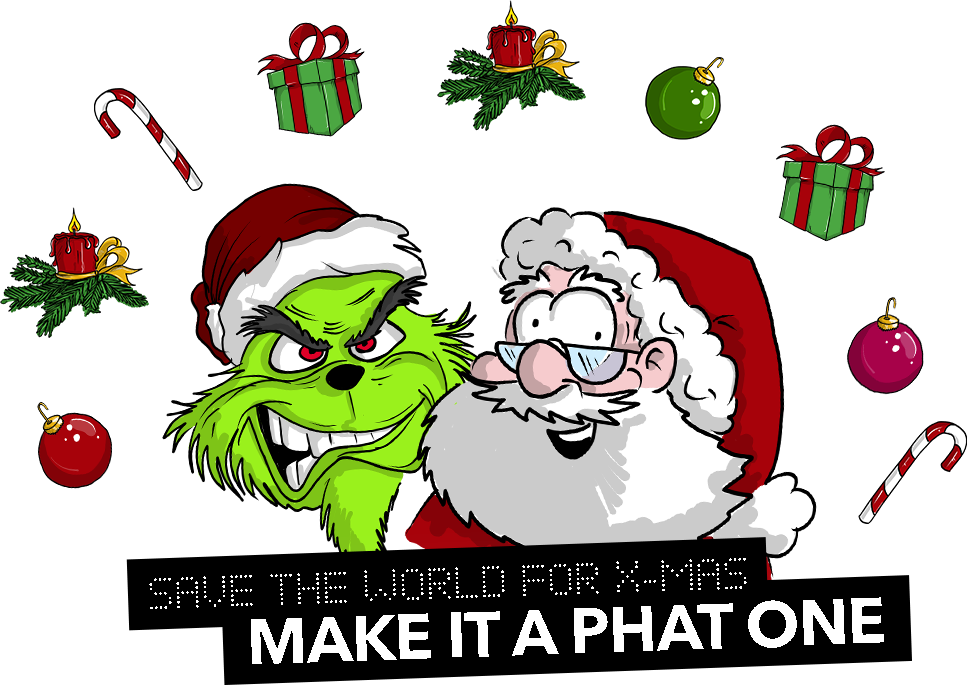
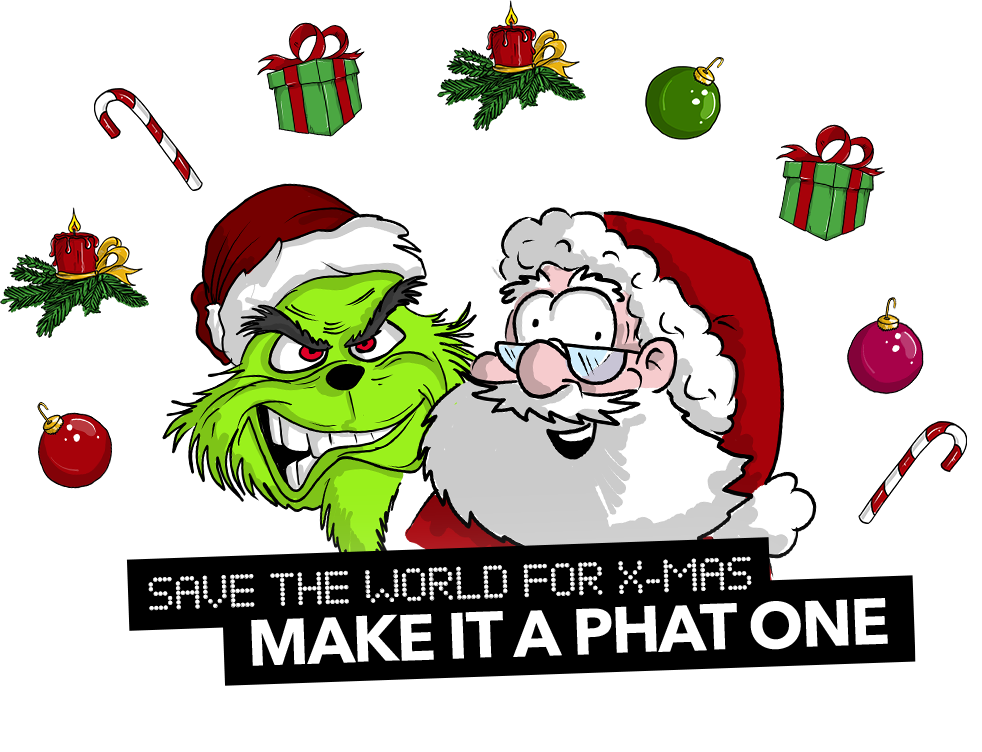
welcome scren 2.0

diff --git a/src/js/game/hud/elements/Button.js b/src/js/game/hud/elements/Button.js
@@ -3,9 +3,9 @@ import Events from '../../Events.js';
 
 export default class Button {
   constructor({ text = 'Button', x = 50, y = 50, color = '#ba55ad', textColor = '#fff' }) {
-    this.fontSize = 24;
-    this.width = (text.length * this.fontSize) * 0.6;
-    this.height = this.fontSize * 2;
+    this.fontSize = 18;
+    this.width = (text.length * this.fontSize) * 0.7;
+    this.height = this.fontSize * 2.5;
 
     this.text = text;
     this.x = x - this.width / 2; // Center the button horizontally at the given x
@@ -49,14 +49,34 @@ export default class Button {
    * Render the button on the canvas.
    */
   render() {
-    // Draw the button rectangle
-    canvas.ctx.fillStyle = this.color;
-    canvas.ctx.fillRect(this.x, this.y, this.width, this.height);
+    // Set the corner radius
+    const radius = 10;
 
-    // Draw the button text
-    canvas.ctx.font = `${this.fontSize}px VT323`;
+    // Begin path for rounded rectangle
+    canvas.ctx.beginPath();
+    canvas.ctx.moveTo(this.x + radius, this.y);
+    canvas.ctx.lineTo(this.x + this.width - radius, this.y);
+    canvas.ctx.quadraticCurveTo(this.x + this.width, this.y, this.x + this.width, this.y + radius);
+    canvas.ctx.lineTo(this.x + this.width, this.y + this.height - radius);
+    canvas.ctx.quadraticCurveTo(this.x + this.width, this.y + this.height, this.x + this.width - radius, this.y + this.height);
+    canvas.ctx.lineTo(this.x + radius, this.y + this.height);
+    canvas.ctx.quadraticCurveTo(this.x, this.y + this.height, this.x, this.y + this.height - radius);
+    canvas.ctx.lineTo(this.x, this.y + radius);
+    canvas.ctx.quadraticCurveTo(this.x, this.y, this.x + radius, this.y);
+    canvas.ctx.closePath();
+
+    // Fill the rounded rectangle
+    canvas.ctx.fillStyle = this.color;
+    canvas.ctx.fill();
+
+    // Draw the button text in bold Arial
+    canvas.ctx.font = `bold ${this.fontSize}px Arial`;
     canvas.ctx.fillStyle = this.textColor;
     canvas.ctx.textAlign = 'center';
-    canvas.ctx.fillText(this.text, this.x + this.width / 2, this.y + this.fontSize * 1.3);
+    canvas.ctx.fillText(
+      this.text,
+      this.x + this.width / 2,
+      this.y + this.fontSize * 1.6
+    );
   }
 }

diff --git a/src/js/game/hud/WelcomeMenu.js b/src/js/game/hud/WelcomeMenu.js
@@ -17,7 +17,6 @@ export default class WelcomeMenu {
 
     // Initialize images (they should be loaded before rendering)
     this.santaImage = null;
-    this.grinchImage = null;
 
     // Load images
     this.loadImages();
@@ -26,7 +25,7 @@ export default class WelcomeMenu {
     this.btn = new Button({
       text: 'Start a new Challenge',
       x: this.width / 2,
-      y: 750, // Placeholder, will be updated in render()
+      y: 750, // We'll place the button below the text line
       color: '#9AF11C', // Set the button background color to green
       textColor: '#000000'
     });
@@ -39,12 +38,11 @@ export default class WelcomeMenu {
   }
 
   /**
-   * Loads the images for Santa and Grinch.
+   * Loads the images for Santa.
    */
   loadImages() {
     // Assuming that assets.load() has already been called in the main game initialization
-    // and images are available in assets.playerTexture and assets.enemyTexture
-
+    // and images are available in this.assets.welcomeTexture
     this.santaImage = this.assets.welcomeTexture;
   }
 
@@ -83,16 +81,22 @@ export default class WelcomeMenu {
     // Clear the canvas
     canvas.ctx.clearRect(0, 0, this.width, this.height);
 
-    // Draw Santa
-    canvas.ctx.drawImage(
-      this.santaImage,
-      150,
-      200,
-      700,
-      490
-    );
+    // Draw Santa Image (assuming 700x490 from original code)
+    canvas.ctx.drawImage(this.santaImage, 70, 160, 800, 610);
 
-    // Start button
+    // Set font for the text and button
+    canvas.ctx.font = '18px Arial';
+    canvas.ctx.fillStyle = '#9AF11C';
+    canvas.ctx.textAlign = 'center';
+
+    // Draw the green text below the graphic
+    const text = 'Schickt den Grinch nach Hause und genießt das Fest der Liebe mit guter Laune.';
+    const text2 = 'Wir wünschen euch die besten Weihnachten der Welt.';
+    // Position the text roughly 60px below the image (image ends at ~690, so at ~750)
+    canvas.ctx.fillText(text, this.width / 2, 850);
+    canvas.ctx.fillText(text2, this.width / 2, 876);
+
+    // Render the button (it should now also use Arial font and appear below the text)
     this.btn.render();
   }
 }
